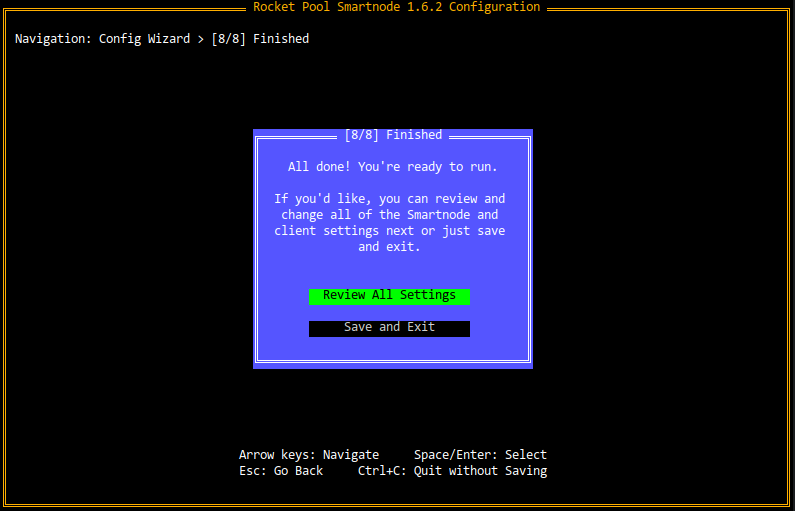
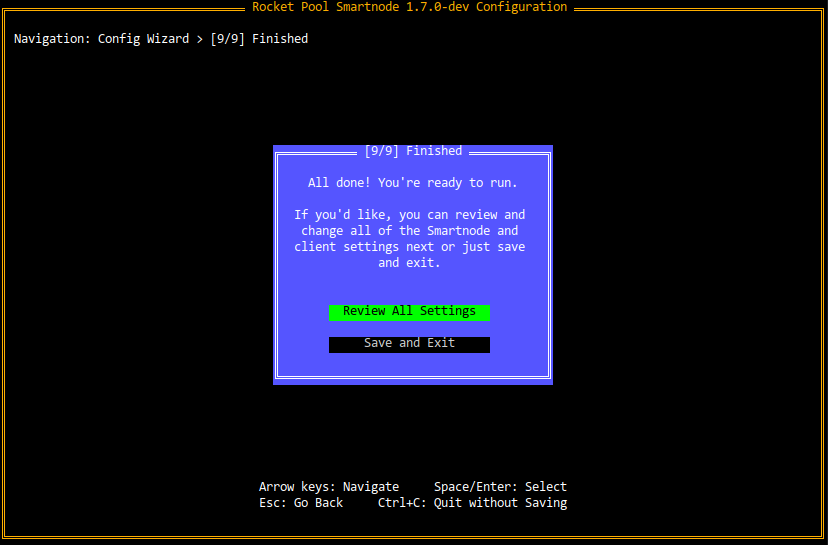
Updated the MEV and setup guides for v1.7.0

diff --git a/src/guides/node/mev.md b/src/guides/node/mev.md
@@ -119,7 +119,7 @@ In phase 1, MEV-Boost is provided to all node operators as an **opt-in** configu
 Node operators are encouraged to use it because it improves rETH's returns and thus keeps the protocol competitive, but are not required to use it.
 Node operators can elect to use **one or more** of the trusted relays listed above but cannot use a custom (untrusted) relay.
 
-This is the **current** phase.
+This phase ended in November 2022.
 
 
 ### Phase 2: Opt-Out
@@ -128,7 +128,7 @@ In phase 2, MEV-Boost is enabled by default for all node operators.
 Node operators can elect to use **one or more** of the trusted relays listed above but cannot use a custom (untrusted) relay.
 Node operators that choose to opt-out of MEV-boost must do so explicitly before starting the Smartnode.
 
-This phase is estimated to begin in **October 2022**.
+This is the **current phase**.
 
 
 ### Phase 3: Required
@@ -156,7 +156,7 @@ Start by running `rocketpool service config` and navigate to the `MEV-Boost` opt
 
 Check the box labeled `Enable MEV-Boost` to enable it.
 
-Once enabled, The screen will look like this (as of Smartnode v1.6.4):
+Once enabled, The screen will look like this (*as of Smartnode v1.7.0*):
 
 <center>
 
@@ -164,24 +164,24 @@ Once enabled, The screen will look like this (as of Smartnode v1.6.4):
 
 </center>
 
-Check the box labeled `Enable MEV-Boost` to enable it.
-
 Below is a description of each option and how to use them.
 
 - The `MEV-Boost Mode` box lets you toggle between a MEV-Boost instance that Rocket Pool manages, and an external one that you manage on your own. This is meant for advanced users that already have MEV-Boost set up and simply want to use it instead of having Rocket Pool run a second copy. Regular Docker Mode users should just leave this set to `Locally Managed`.
 
-- Each of the `Relay` check boxes lets you specify which relays you want to use. **You can enable multiple relays here, you don't need to limit your selection to only one!** Please see the descriptions of each relay above for more information on them.
-  - If you don't care about OFAC sanctions or MEV type, **simply check all of the boxes**.
-  - If you want to ensure compliaces with the OFAC sactions, you should select **Flashbots, bloxRoute Regulated, Blocknative, and Eden.**
-  - If you specifically want to avoid relays that comply with the OFAC sanctions, you should select **bloxRoute Max Profit** and/or **bloxRoute Ethical** depending on how you feel about Sandwich Attacks.
-  - *In a future Smartnode update, we'll replace these explicit relay choices with these profiles instead for simplicity.*
+- The `Selection Mode` box lets you switch between **Profile Mode** and **Relay Mode**.
+  - **Profile Mode** is the default. It lets you select which relays to enable based on their "profiles". A relay's profile is made of the following choices:
+    - Whether it's **regulated** (complies with government sanctions lists such as the OFAC list and blacklists certain addresses) or **unregulated** (*does not* censor any transactions based on any blacklists)
+    - Whether it **allows all types of MEV** or explicitly prohibits bundles that involve sandwich attacks or front-running Ethereum users
+  - You can **select multiple profiles**.
+  - Each profile you select has a set of relays that adhere to it which are listed in the description box; enabling that profile will enable all of those relays.
+  - Advanced users can change this to **Relay Mode**, which lets them explicitly select which relays they would like to use.
 
 - The `Port` box is not important for Docker mode users.
 - The `Expose API Port` box is not important for Docker mode users.
 - The `Container Tag` box is useful to manually upgrade the version of MEV-Boost that the Smartnode runs if Flashbots releases a new high-priority version you want to use before a Smartnode update with it is released.
 - The `Additional Flags` box is used if you want to add supplemental config flags or parameters directly to the MEV-Boost container. Normally, it will not be useful.
 
-Once you've enabled MEV-Boost and enabled the relays you'd like to do, simply save and exit.
+Once you've enabled MEV-Boost and enabled the relays you'd like, simply save and exit.
 The Smartnode will restart the relevant containers for you, and automatically set it all up for you.
 
 See below for instructions on how to check that it's working as expected. 
@@ -199,7 +199,7 @@ Start by running `rocketpool service config` and navigate to the `MEV-Boost` opt
 
 Check the box labeled `Enable MEV-Boost` to enable it.
 
-Once enabled, The screen will look like this (as of Smartnode v1.6.4):
+Once enabled, The screen will look like this (*as of Smartnode v1.7.0*):
 
 <center>
 
@@ -217,18 +217,20 @@ Below is a description of each option and how to use them.
 If you run your own MEV-Boost instance, you **must** only register with the trusted relays listed above. If your Rocket Pool validator proposes a block that was sent via an untrusted relay, the Oracle DAO will **flag you for cheating** and possibly stealing MEV from the rETH stakers. This will result in [a penalty](https://github.com/rocket-pool/rocketpool-research/blob/master/Penalties/penalty-system.md) on your minipool!
 :::
 
-- If you decided to use a `Locally Managed` instance of MEV-Boost, each of the `Relay` check boxes underneath it will let you specify which relays you want to use. **You can enable multiple relays here, you don't need to limit your selection to only one!** Please see the descriptions of each relay above for more information on them.
-  - If you don't care about OFAC sanctions or MEV type, **simply check all of the boxes**.
-  - If you want to ensure compliaces with the OFAC sactions, you should select **Flashbots, bloxRoute Regulated, Blocknative, and Eden.**
-  - If you specifically want to avoid relays that comply with the OFAC sanctions, you should select **bloxRoute Max Profit** and/or **bloxRoute Ethical** depending on how you feel about Sandwich Attacks.
-  - *In a future Smartnode update, we'll replace these explicit relay choices with these profiles instead for simplicity.*
+- If you decided to use a `Locally Managed` instance of MEV-Boost, he `Selection Mode` box lets you switch between **Profile Mode** and **Relay Mode**.
+  - **Profile Mode** is the default. It lets you select which relays to enable based on their "profiles". A relay's profile is made of the following choices:
+    - Whether it's **regulated** (complies with government sanctions lists such as the OFAC list and blacklists certain addresses) or **unregulated** (*does not* censor any transactions based on any blacklists)
+    - Whether it **allows all types of MEV** or explicitly prohibits bundles that involve sandwich attacks or front-running Ethereum users
+  - You can **select multiple profiles**.
+  - Each profile you select has a set of relays that adhere to it which are listed in the description box; enabling that profile will enable all of those relays.
+  - Advanced users can change this to **Relay Mode**, which lets them explicitly select which relays they would like to use.
 
 - The `Port` box determines which port MEV-Boost will listen for incoming connections from your Beacon Node on. If you need to change it because of a port conflict within your node, you can do it here.
 - The `Expose API Port` box **should be checked** so that your externally-managed BN can communicate with the MEV-Boost instance Rocket Pool will manage.
 - The `Container Tag` box is useful to manually upgrade the version of MEV-Boost that the Smartnode runs if Flashbots releases a new high-priority version you want to use before a Smartnode update with it is released.
 - The `Additional Flags` box is used if you want to add supplemental config flags or parameters directly to the MEV-Boost container. Normally, it will not be useful.
 
-Once you've enabled MEV-Boost and enabled the relays you'd like to do, simply save and exit.
+Once you've enabled MEV-Boost and enabled the relays you'd like, simply save and exit.
 If you're using a `Locally Managed` instance and have the `Expose API Port` box checked, you can then configure your Beacon Node to connect to it at `http://localhost:18550`.
 Please refer to [Flashbots' documentation](https://github.com/flashbots/mev-boost/wiki/Testing) to learn how to enable MEV-Boost on your externally-managed Beacon Node.
 

diff --git a/src/guides/node/config-docker.md b/src/guides/node/config-docker.md
@@ -103,7 +103,8 @@ By choosing this, the Smartnode will simply connect to your existing clients and
 For example, users can use this to plug into the clients that they currently use for solo staking; that way, they don't need to have two separate copies of the clients.
 
 :::warning NOTE
-As the Smartnode cannot manage external Execution clients, you will still be responsible for regularly updating yours and diagnosing any issues it may encounter (as you currently do with it today).
+Since the Execution-Consensus Layer Merge, you *cannot* mix and match these modes (e.g., you cannot have a local Execution client but an externally-managed Consensus client).
+You must either choose all locally-managed or all externally-managed.
 :::
 
 
@@ -176,32 +177,9 @@ When you're happy with your fallback Execution client choices, proceed to the ne
 ### Consensus Client Setup
 
 Now that you have an Execution client ready, the next task is to set up the Consensus client.
-The first thing to do is determine which management mode you'd like to use for it, just like you did for the Execution client earlier:
+The "mode" (local or external) will be inherited from the choice you used for your Execution client earlier.
 
-As with the Execution client management mode, there are two options here.
-
-**Locally Managed** (formerly called **"Docker Mode"**) is the default choice.
-Use it if you don't already have a Consensus client and you want the Smartnode to manage one for you.
-By choosing this, the Smartnode will add both a **Beacon Node** (the process used to communicate with the Beacon Chain) and a **Validator Client** (the process used by minipools to validate on the Beacon Chain and earn rewards) as Docker containers that it can control to its stack.
-Don't worry, you'll get to choose *which* client you want to run next.
-
-**Externally Managed** (formerly called **"Hybrid Mode"**) is a convenient choice for users that already have a Consensus client running elsewhere that they manage manually.
-By choosing this, the Smartnode will simply connect to your existing Beacon Node and will not run one of its own.
-However, it *will* run its own Validator Client so it can manage its own validator keys.
-
-For example, users can use this to plug into a Beacon Node that they currently use for solo staking; that way, they don't need to have two separate copies of a Beacon Node.
-
-<center>
-
-![](./images/tui-cc-mode.png)
-
-</center>
-
-:::warning NOTE
-As the Smartnode cannot manage external Consensus clients, you will still be responsible for regularly updating yours and diagnosing any issues it may encounter (as you currently do with it today).
-:::
-
-Choose which mode you'd like to use for managing your Consensus client and follow the steps in the corresponding tab below:
+Choose which mode you selected earlier from the tabs below:
 
 ::::::: tabs
 :::::: tab Locally Managed
@@ -364,6 +342,23 @@ The message will be preserved forever, so think of it like a fun little way to l
 **Note the maximum length of the graffiti is 16 characters.**
 
 If you'd like to see some examples of what validators are using for Graffiti today, [take a look here](https://beaconcha.in/blocks).
+
+Next up is an option to enable or disable **Checkpoint Sync**:
+
+<center>
+
+![](./images/tui-local-checkpoint.png)
+
+</center>
+
+Prysm has the ability to instantly sync to the latest block on the Beacon Chain network by connecting to an existing Beacon Node that you trust.
+This is preferred over conventional syncing because it doesn't require any time (whereas conventional syncing can take days) and comes with some security benefits.
+Take a look at [their documentation on checkpoint syncing](https://docs.prylabs.network/docs/prysm-usage/checkpoint-sync) for more information if you are curious.
+
+You can enter the URL of any Beacon Node that provides access to its REST API here.
+One popular option is Infura, which offers this service for free (though it requires you to create an account).
+
+See [the section below on Checkpoint Syncing](#beacon-chain-checkpoint-syncing-with-infura) if you'd like to use it.
 
 The final question will ask if you want to enable Doppelgänger Protection:
 
@@ -678,7 +673,7 @@ After that, your Beacon node will be configured to connect to Infura when it fir
 Starting with 1.5.0 of the Smartnode stack, you can provide a "fallback" Execution client and Consensus client pair that can take over for your primary clients if they ever go offline (such as because you use Geth and need to prune it).
 In this situation, your primary node machine will still be responsible for attesting and proposing blocks with your minipools' validator keys, but it will connect to an external machine to interact with the Execution layer and Beacon chains. 
 
-[To learn more about fall back nodes see this section](./fallback.md)
+[To learn more about fall back nodes, see this section](./fallback.md) and return here when you're done.
 
 
 ### Metrics Configuration
@@ -706,6 +701,25 @@ All of the data collected by this system **stays on your machine**.
 Rocket Pool does not collect any of the telemetry or send it to a separate service.
 It's purely there for you to use so you can monitor your own node!
 :::
+
+
+### MEV Configuration
+
+Since the Merge of the Execution and Consensus layers in September 2022, Ethereum validators now have the ability to earn priority fees and participate in Maximal Extractable Value (or MEV for short).
+
+Starting with Smartnode v1.7.0, MEV is now *opt-out* so its configuration is presented as part of the initial setup, as you see in the next screen:
+
+<center>
+
+![](./images/tui-mev-mode.png)
+
+</center>
+
+[Please read our MEV guide to learn more about MEV, its configuration, and what to do in this section of the wizard.](./mev.md)
+Return here when you're finished.
+
+
+### Completion
 
 After this question, you've finished setting up the Smartnode!
 You will see the following dialog:
